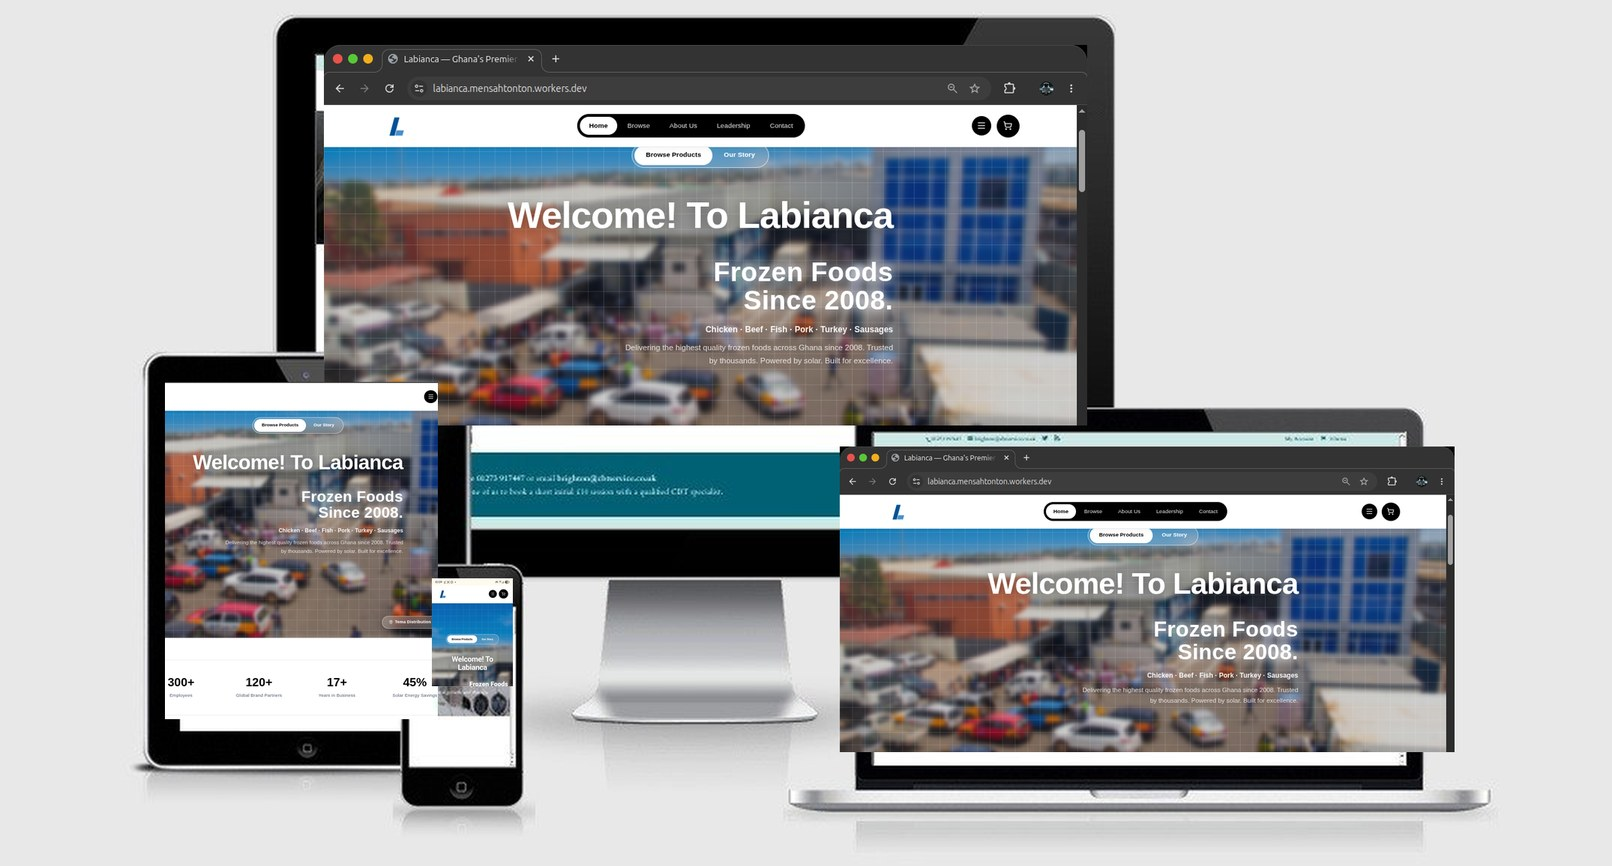
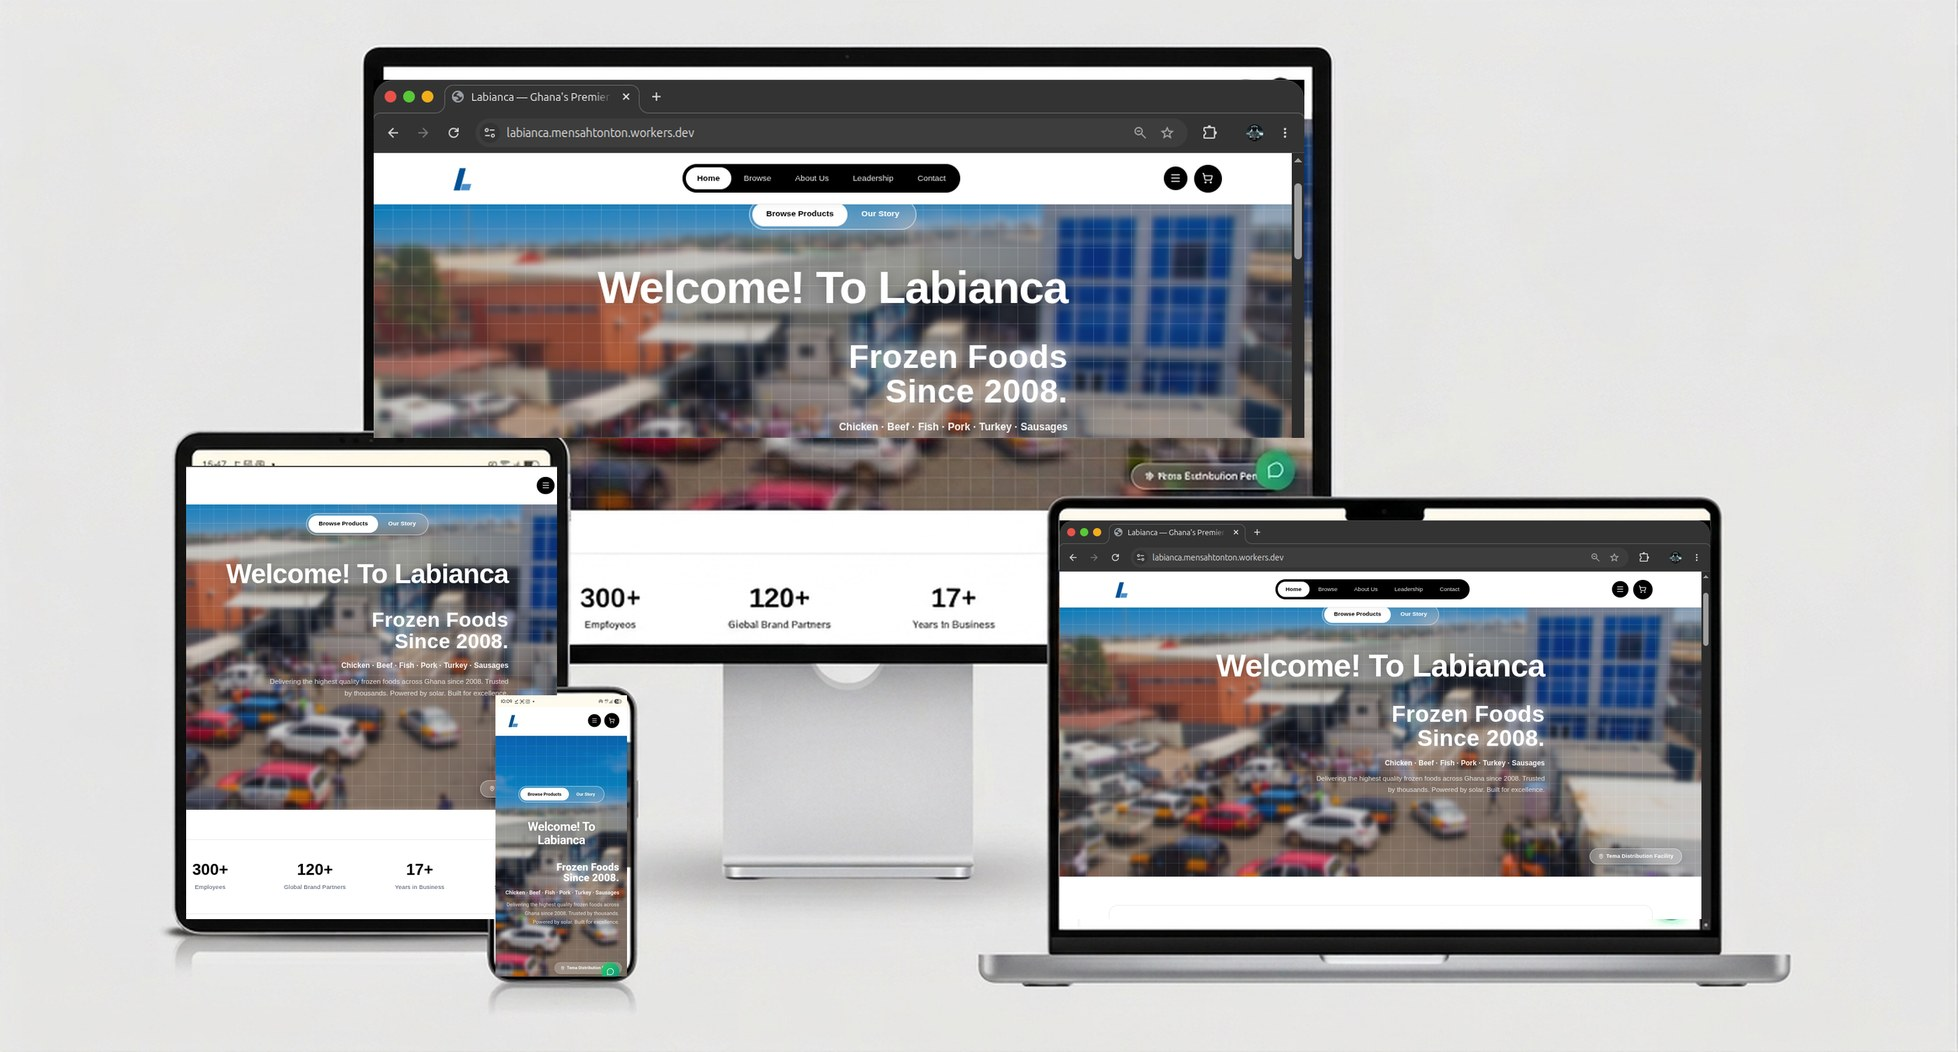
Composite real screenshots into new device mockups, redesign tool grid as single glass card

diff --git a/src/components/site/WorkSection.tsx b/src/components/site/WorkSection.tsx
@@ -3,9 +3,7 @@ import { DeviceFrame } from "./DeviceFrame";
 import { ToolGrid, type Tool } from "./ToolGrid";
 import { FeatureSlide } from "./FeatureSlide";
 
-import yoglaitDesktop from "@/assets/work/yoglait-desktop.png";
-import yoglaitTablet from "@/assets/work/yoglait-tablet.png";
-import yoglaitPhone from "@/assets/work/yoglait-phone.jpg";
+import yoglaitDevices from "@/assets/work/yoglait-devices.jpg";
 import yoglaitLocation from "@/assets/work/yoglait-location.png";
 import yoglaitAdmin from "@/assets/work/yoglait-admin.png";
 import yoglaitHistory from "@/assets/work/yoglait-history.png";
@@ -116,26 +114,14 @@ export function WorkSection() {
             hygiene, fewer chances of theft, and no one fumbling for change at the door.
           </p>
 
-          <div className="mt-10 grid grid-cols-5 items-end gap-3 sm:gap-6">
-            <DeviceFrame
-              type="phone"
-              image={yoglaitPhone}
-              alt="Yoglait home, on a phone"
-              className="col-span-1"
-            />
-            <DeviceFrame
-              type="tablet"
-              image={yoglaitTablet}
-              alt="Yoglait home, on a tablet"
-              className="col-span-2"
-            />
-            <DeviceFrame
-              type="desktop"
-              image={yoglaitDesktop}
-              alt="Yoglait home, on a desktop"
-              className="col-span-2"
+          <div className="mt-10 overflow-hidden rounded-[1.75rem] shadow-[0_25px_60px_-25px_rgba(0,0,0,0.5)]">
+            <img
+              src={yoglaitDevices}
+              alt="The Yoglait homepage across desktop, laptop, tablet and phone"
+              className="w-full object-cover"
             />
           </div>
+          <p className="mt-4 text-center text-xs text-white/50">One homepage, four screens.</p>
 
           {/* problem / tools */}
           <div className="mt-14 grid items-center gap-8 sm:grid-cols-2">

diff --git a/src/components/site/ToolGrid.tsx b/src/components/site/ToolGrid.tsx
@@ -1,30 +1,31 @@
+import { GlassCard } from "./GlassCard";
 import { cn } from "@/lib/utils";
 
 export type Tool = { name: string; icon: string };
 
 /**
- * 3-column grid of tool/language logos. Greyscale by default, full brand
- * colour + a slight lift on hover.
+ * A single glass card (same component used on the homepage) holding every
+ * tool/language logo for a project. Icons sit greyscale by default and pop
+ * into full brand colour with a slight enlarge on hover.
  */
 export function ToolGrid({ tools, className }: { tools: Tool[]; className?: string }) {
   return (
-    <div className={cn("grid grid-cols-3 gap-3", className)}>
+    <GlassCard
+      shape="a"
+      className={cn("flex flex-wrap items-center justify-center gap-6 sm:gap-8", className)}
+    >
       {tools.map((tool) => (
-        <div
-          key={tool.name}
-          className="group flex aspect-square flex-col items-center justify-center gap-2 rounded-2xl bg-card p-3 shadow-sm ring-1 ring-black/5 transition-transform duration-300 hover:-translate-y-1 hover:shadow-md"
-          title={tool.name}
-        >
+        <div key={tool.name} className="group flex flex-col items-center gap-2" title={tool.name}>
           <img
             src={tool.icon}
             alt={tool.name}
-            className="h-7 w-7 grayscale transition-all duration-300 group-hover:scale-110 group-hover:grayscale-0 sm:h-8 sm:w-8"
+            className="h-12 w-12 grayscale transition-all duration-300 group-hover:scale-125 group-hover:grayscale-0 sm:h-14 sm:w-14"
           />
-          <span className="text-[10px] font-medium text-muted-foreground opacity-0 transition-opacity duration-300 group-hover:opacity-100">
+          <span className="text-[10px] font-medium ink-soft opacity-0 transition-opacity duration-300 group-hover:opacity-100">
             {tool.name}
           </span>
         </div>
       ))}
-    </div>
+    </GlassCard>
   );
 }
